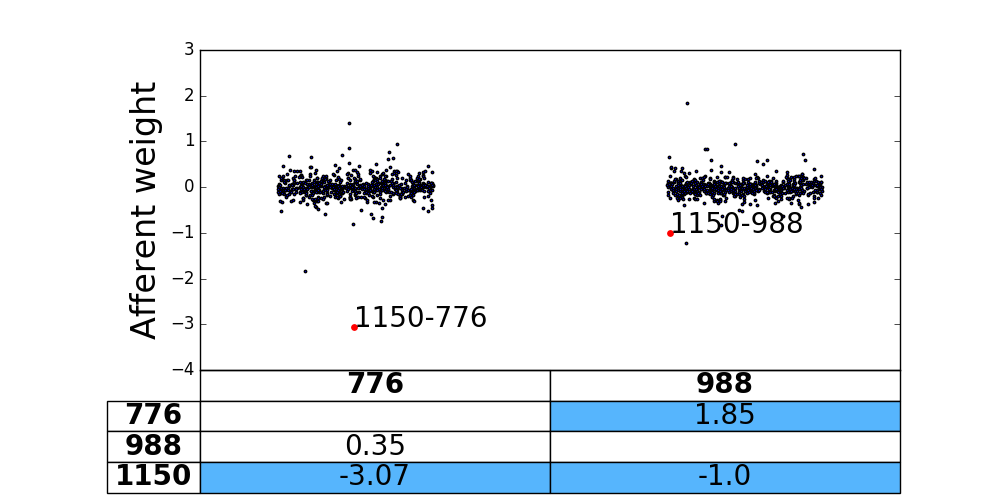
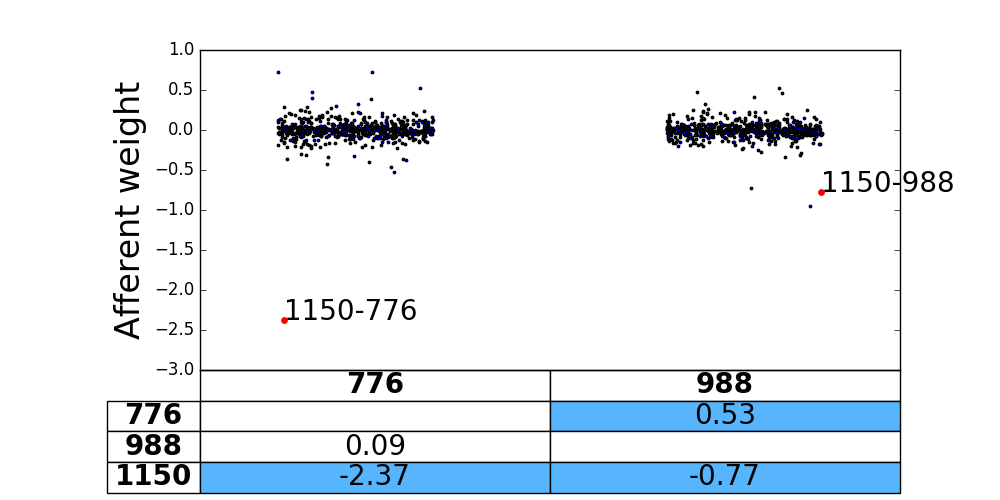
final edits

diff --git a/writeup/NAACL2019/Sections/Results_number.tex b/writeup/NAACL2019/Sections/Results_number.tex
@@ -55,7 +55,7 @@ nounPPAdv & PP & - &  - &   \textcolor{blue}{99.8} \\
 \hline
 
 \end{tabular}
-\caption{Ablation experiments results: Percentage accuracy in all NA-tasks. Full: non-ablated model, C: condition, S: singular, P: plural. Red: Singular subject, Blue: Plural subject. Performance reduction less than 10\% denoted by `-'.  \label{tab:ablation-results}}
+\caption{Ablation-experiments results: Percentage accuracy in all NA-tasks. Full: non-ablated model, C: condition, S: singular, P: plural. Red: Singular subject, Blue: Plural subject. Performance reduction less than 10\% is denoted by `-'.  \label{tab:ablation-results}}
 \end{table}
 \end{center}
 
@@ -84,7 +84,7 @@ nounPPAdv & PP & - &  - &   \textcolor{blue}{99.8} \\
             \subcaption{\unit{2}{126} (plural)}
     \label{fig:plural-unit}
     \end{subfigure}
-\caption{Cell and gate activations during processing of a sentence with a prepositional phrase between subject and verb. Values in (b) and (c) are averaged across all condition sentences, with error bars showing standard deviations}
+\caption{Cell and gate activations during processing of sentences with a prepositional phrase between subject and verb. Values in (b) and (c) are averaged across all condition sentences, with error bars showing standard deviations.}
 \end{figure*}
 
 \subsection{Long-range number units}\label{subsec:ablation}
@@ -93,9 +93,7 @@ We first tested LSTM performance on Linzen's data and on the NA-tasks of Table
 \newcite{Linzen:etal:2016} and later work, we compute the likelihood
 that the LSTM assigns to the main verb of each sentence given the
 preceding context, and compare it to the likelihood it assigns to the
-wrong verb inflection for the opposite number. Accuracy in a given condition is the proportion of sentences
-in the condition where the model assigned a higher likelihood to the
-correct form than to the wrong one.
+wrong verb inflection. Accuracy in a given condition is the proportion of sentences in the condition where the model assigned a higher likelihood to the correct form than to the wrong one.
 
 Network performance is reported in Table \ref{tab:ablation-results}
 (right column -- `Full'). We see, first, that some NA-tasks and
@@ -134,7 +132,7 @@ chance level in the more difficult incongruent conditions of the
 namePP, nounPP and nounPPAdv
 tasks. 
 
-Moreover, the ablation effect depended on the grammatical number of the subject: \unit{2}{126} significantly reduces
+Moreover, the ablation effect depended on the grammatical number of the subject: ablating \unit{2}{126} significantly reduces
 network performance only if the subject is plural (P, PS or PP conditions) and \unit{2}{338}
 only if the subject is singular (S, SP or SS conditions). In what follows, we will therefore
 refer to these units as the `plural' and `singular' units, respectively,
@@ -196,17 +194,17 @@ A single divergence between the solution depicted in Figure \ref{fig:cartoon} an
 \begin{figure}[b]
     \centering
     \includegraphics[height=5cm]{Figures/weight_dists_verbs.png}
-    \caption{Efferent weights of the LR-units (\unit{2}{126} and \unit{2}{338}), the syntax unit (\unit{2}{500}, section \ref{sec:syntax-units}) and two arbitrary units (\unit{2}{1}, \unit{2}{650}).}
+    \caption{Efferent weights of the LR-units (\unit{2}{126} and \unit{2}{338}), the syntax unit (\unit{2}{500}; section \ref{sec:syntax-units}) and two arbitrary units (\unit{2}{1} and \unit{2}{650}).}
     \label{fig:output-weights}
 \end{figure}
 
-The singular and plural units have emerged at the second layer of the network. This seems appropriate if number information needs to be directly projected to the output layer for correct verb-form prediction. Moreover, number-unit output should be projected differently to singular and plural verb forms in the output layer, only increasing activity in output units representing the suitable form. For example, for the singular unit, since singular subjects are encoded with a negative value ($C_{t_{verb}-1}<-1$ in figure \ref{fig:singular-unit}), the more negative its efferent weights to singular verb forms in the output layer, the higher the probabilities of these verb forms would be. Figure \ref{fig:output-weights} shows the efferent weights of the LR-number units to all verbs in our data-sets. We find that, indeed, the efferent weights to the singular and plural verb forms are segregated from each other, with weight signs that correspond to the negative encoding of subject number used by both singular and plural units. Two other arbitrary units, \unit{2}{1} and \unit{2}{650} and the syntax unit \unit{2}{500} to be described below (Section \ref{sec:syntax-units}) do not have segregated efferent weights to verb forms, as expected. 
+The singular and plural units have emerged at the second layer of the network. This seems appropriate if number information needs to be directly projected to the output layer for correct verb-form prediction. Moreover, number-unit output should be projected differently to singular and plural verb forms in the output layer, only increasing activity in output units representing the suitable form. For example, for the singular unit, since singular subjects are encoded with a negative value ($C_{t_{verb}-1}<-1$ in figure \ref{fig:singular-unit}), the more negative its efferent weights to singular verb forms in the output layer, the higher the probabilities of these verb forms would be. Figure \ref{fig:output-weights} shows the efferent weights of the LR-number units to all verbs in our data-sets. We find that, indeed, the efferent weights to the singular and plural verb forms are segregated from each other, with weight signs that correspond to the negative encoding of subject number used by both singular and plural units. Two other arbitrary units, \unit{2}{1} and \unit{2}{650}, and the syntax unit \unit{2}{500} to be described below (Section \ref{sec:syntax-units}) do not have segregated efferent weights to verb forms, as expected. 
 
 \subsection{Short-range number information}
 \begin{figure}
     \centering
     \includegraphics[height=5cm]{Figures/GAT1d_cell_.png}
-    \caption{Generalization across time. Error bars represent standard deviations across cross-validation splits.}
+    \caption{Generalization across time of subject-number prediction. Error bars represent standard deviations across cross-validation splits.}
     \label{fig:GAT}
 \end{figure}
 
@@ -218,7 +216,7 @@ pattern of activities in the network (excluding the two LR-number units)
 and whether this decoding is stable across time \cite[see][for similar
 observations and related methods]{Giulianelli:etal:2018}. We expected
 this distributed activity network to track number in a
-small time window after the subject, but, unlike the proper number units,
+small time window after the subject, but, unlike the LR-number units,
 to be affected by incongruent intervening nouns.
 
 We trained a linear model to predict the grammatical number of the
@@ -256,10 +254,8 @@ structure as that of the LR units (Figure
 encountered noun: subject number could be decoded from single-unit cell activity
 during its presentation (AUC$>0.9$), but activity `swaps' once an
 interfering noun appears (i.e., AUC decreases to zero in a
-generalization-across-time analysis). Finally, to validate the effect of SR-number units on network performance, for all easier NA-tasks, we ablated both SR and LR number
-units (12 in total) or SR units only (10 in total). Both experiments
-resulted in a significant reduction in task performance compared to
-1,000 random equi-size ablations ($p<0.01$).
+generalization-across-time analysis). Finally, to validate the role of SR-number units in encoding number for easier NA-tasks, we ablated both SR and LR number
+units (12 in total) or SR units only (10 in total) and evaluated network performance on these NA-tasks. Both experiments resulted in a significant reduction in task performance compared to 1,000 random equi-size ablations ($p<0.01$ in all `easier' tasks).
 
 Intriguingly, we observed qualitatively that LR units are almost
 always making the right prediction, even when the network predicts the

diff --git a/writeup/NAACL2019/Sections/Discussion.tex b/writeup/NAACL2019/Sections/Discussion.tex
@@ -12,13 +12,15 @@ language-model training, as was previously suggested by theoretical
 studies of artificial neural networks \cite[e.g.][]{Bowers:2009} and in
 neuroscience \cite[e.g.,][]{Kutter:etal:2018}.
 
-Our analysis also identified units whose activity correlates with syntactic complexity. These units, as a whole, affect performance on the agreement tasks. We found that one of them, more specifically, encodes the main subject-verb dependency across various syntactic constructions. Two of its highest efferent weights were to the number unit forget and input gates. A natural interpretation is that this unit propagates syntax-based remember and update flags that control when the number units store and release information. % Together, the LR-number units and the syntax unit thus form the main component of the circuit underlying LSTM capacity in performing the NA-task.
+Our analysis also identified units whose activity correlates with syntactic complexity. These units, as a whole, affect performance on the agreement tasks. We found that one of them, more specifically, encodes the main subject-verb dependency across various syntactic constructions. Moreover, the highest afferent weights to the forget and input gates of both LR-number units were from this unit. A natural interpretation is that this unit propagates syntax-based remember and update flags that control when the number units store and release information.
 
 Finally, number is also redundantly encoded in a more distributed way, but the latter mechanism is unable to carry information across embedded syntactic structures. The computational burden of tracking number information thus gave rise to two types of units in the network,  encoding similar information  with distinct properties and dynamics.
 
-The relationship we uncovered and characterized between syntax and number units suggests that agreement in language-model-trained LSTMs cannot be entirely explained away by superficial heuristics, and the networks have, to some extent, learnt to build and exploit syntactic representations akin to those linguists conjecture support human sentence processing.
+The relationship we uncovered and characterized between syntax and number units suggests that agreement in language-model-trained LSTMs cannot be entirely explained away by superficial heuristics, and the networks have, to some extent, learned to build and exploit structure-based syntactic representations, akin to those conjectured to support human-sentence processing.
 
-We hope that our study will inspire more analyses of the inner dynamics of LSTM and other sequence-processing networks, complementing the currently popular ``black-box probing'' approach. Besides bringing about a mechanistic understanding of language processing in artificial models, this could inform work on human sentence processing.  Indeed, our study yields a particular testable prediction on brain dynamics, given that the computational burden of long-distance agreement remains the same for artificial and biological neural network. We conjecture that a similar interaction between syntactic and feature-carrying units might be implemented in the human brain, and plan to test this in future work.
+%akin to those linguists conjecture support human sentence processing.
+
+We hope that our study will inspire more analyses of the inner dynamics of LSTM and other sequence-processing networks, complementing the currently popular ``black-box probing'' approach. Besides bringing about a mechanistic understanding of language processing in artificial models, this could inform work on human-sentence processing. Indeed, our study yields particular testable predictions on brain dynamics, given that the computational burden of long-distance agreement remains the same for artificial and biological neural network. We conjecture a similar distinction between SR and LR units to be found in the human brain, as well as an interaction between syntax-processing and feature-carrying units such as the LR units, and plan to test this in future work.
 
 % More generally, this work has several contributions. First, it provides the most detailed analysis of the inner dynamics of an LSTM performing a linguistic task we are aware of. We think that similar studies should complement currently popular black-box tests, to achieve a true understanding of language processing in neural networks. \marco{Here, we might want to mention the need for future work on relative clauses, as well as on other  models, such as transformers.}. Second, our simulations generated two testable predictions and can thus inform future work in neuroscience as discussed above. Finally, our findings about number agreement suggest that LSTM-LMs can encode the underlying subject-verb dependency across many syntactic structures without relying on canny heuristics. This contributes explicit evidence to the debate about structure-based processes in LSTM-LMs.
 

diff --git a/writeup/NAACL2019/Sections/Results_interaction.tex b/writeup/NAACL2019/Sections/Results_interaction.tex
@@ -17,8 +17,8 @@
     \caption{Connectivity among the syntax unit \unit{2}{500} and
       LR-number units \unit{2}{126} and \unit{2}{338}. Projecting
       units are on the table rows. Blue background highlights outlier
-      values ($|z|>3$). Weights from the syntax unit are marked in red
-      and are explicitly labeled in the plots, that show the overall distributions of afferent weights to each number unit.}
+      values ($|z-score|>3$). Weights from the syntax unit are marked in red
+      and are explicitly labeled in the plots, which show the overall distributions of afferent weights to each number unit.}
 \label{fig:interaction}
 \end{figure*}
 
@@ -27,23 +27,23 @@ between syntax unit \unit{2}{500}, which appears to be more closely involved in
 tracking subject-verb agreement, and the LR number units, as well as at
 the connections between the latter. For each unit pair, there are 4
 connection types, one for each component of the target cell (to the 3
-gates and to the memory cell). We focus on input and forget gates, as they control the flow and storage of number information.
+gates and to the update candidate). We focus on input and forget gates, as they control the flow and storage of number information.
 
 Figures \ref{fig:interaction-input} and \ref{fig:interaction-forget}
 show the distributions of all afferent recurrent weights to the input
-and forget gates of the number units, scaled by the maximal activity
-$h_t$ of the pre-synaptic units during the nounPP task (for evaluating
-the effective input to the units). We found that the weights from the
+and forget gates of the LR-number units, scaled by the maximal activity
+$h_t$ of the pre-synaptic units during the nounPP task (this scaling evaluates
+the \textit{effective} input to the units, and did not change the conclusions described below). We found that the weights from the
 syntax unit to the forget gate of both \unit{2}{126} and \unit{2}{338}
 are exceptionally high in the positive direction compared to all other
-afferent connections in the network ($z=8.1, 11.2$, respectively), and
-those to their input gates exceptionally negative ($z=-16.2,
+afferent connections in the network ($z-score=8.1, 11.2$, respectively), and
+those to their input gates exceptionally negative ($z-score=-16.2,
 -7.2$). Since the cell activity of syntax unit \unit{2}{500} is
 positive across the entire subject-verb dependency (e.g., Figure
 \ref{fig:syntax-unit-double-subjrel}), the connectivity from the
-syntax unit drives the number unit forget gates towards 1
-($W^f_{776, 1150}h_{1150}>>0$) and their input gates towards 0
-($W^i_{776, 1150}h_{1150}<<0$). Looking at the right-hand-side of
+syntax unit drives the number unit forget gates towards one
+($W^f_{776, 1150}h^{1150}>>0$ and $W^f_{988, 1150}h^{1150}>>0$; $t_{subject}<t<t_{verb}$) and their input gates towards zero
+($W^i_{776, 1150}h^{1150}<<0$ and $W^i_{988, 1150}h^{1150}<<0$). Looking at the right-hand-side of
 Eq.~(\ref{eq:update-rule}), this means that the first term becomes
 dominant and the second vanishes, suggesting that, across the entire
 dependency, the syntax unit conveys a `remember flag' to the number
@@ -52,7 +52,7 @@ negative at the end of the dependency, it conveys an `update flag'.
 
 Last, we note that the reciprocal connectivity between the two
 LR-number units is always positive, to both input and forget
-gates (and significant from \unit{2}{126} to \unit{2}{338}). Since
+gates (with $|z-score|>3$ for the \unit{2}{126}-to-\unit{2}{338} direction). Since
 their activity is negative throughout the subject-verb dependency
 (Figures \ref{fig:singular-unit} and \ref{fig:plural-unit}), this means
 that they are \textit{mutually inhibiting}, thus steering towards an

diff --git a/writeup/NAACL2019/Sections/Results_syntax.tex b/writeup/NAACL2019/Sections/Results_syntax.tex
@@ -26,11 +26,11 @@
             \caption{Two embeddings with subject relatives}
             \label{fig:syntax-unit-double-subjrel}
     \end{subfigure}
-\caption{Cell activity of syntax unit \unit{2}{500} while processing various syntactic structures. Values averaged across all stimuli in an NA-task, with error bars representing standard deviations. Relative clause NA-task stimuli specifically generated for this visualization. \yair{improve visualization}}
+\caption{Cell activity of syntax unit \unit{2}{500} while processing various syntactic structures. Values averaged across all stimuli in an NA-task, with error bars representing standard deviations. Relative clause NA-task stimuli were specifically generated for this visualization. \yair{improve visualization}}
 \end{figure*}
 
-We saw how the LR number unit input and forget gates control the flow
-of subject number information. It remains unclear, however, how the dynamics of these gates are controlled by the network. We hypothesized
+We saw how the input and forget gates of the LR-number units control the flow
+of subject-number information. It remains unclear, however, how the dynamics of these gates are controlled by the network. We hypothesized
 that other units may encode information about the syntactic structure
 of the sentence, and thus about the subject-verb dependency. To
 search for them, we tested whether syntactic information can be
@@ -38,7 +38,7 @@ decoded from some network units, by using depth of the
 syntactic tree as a proxy \cite{Nelson:etal:2017}. Specifically, we
 trained an L2-regularized regression model to predict syntactic
 tree-depth from the hidden-state activity of all units, using the data
-presented in Section \ref{sec:the_data} above in a nested 5-fold
+presented in Section \ref{sec:the_data} above, in a nested 5-fold
 cross-validation procedure. %
 % (the optimal regularization size was found to be consistent across CV-splits, $\lambda=784.76$, among 20 possible values log-uniformly distributed in $[10^-5, 10^5]$). Word position and tree-depth were decorrelated in the data and
 Word frequency was added as a covariate
@@ -51,7 +51,7 @@ To gain further insight regarding the functioning of the syntax units,
 we next visualized their gate and cell dynamics during sentence
 processing. We found that cell activity of unit
 \unit{2}{500}, which also had one of the highest weights in the
-regression model above, was remarkably structured. The activity of
+regression model, was remarkably structured. The activity of
 this unit increases across the entire subject-verb
 dependency and drops abruptly right after. Figures
 \ref{fig:syntax-unit-2Adv} and \ref{fig:syntax-unit-nounpp} show cell
@@ -65,4 +65,4 @@ results suggest that unit \unit{2}{500} consistently encodes
 subject-verb dependency in a syntax-sensitive manner. Other syntax
 units did not show an easily interpretable dynamics, and had no clear
 interactions with the number units in the analysis discussed next,
-suggesting that they perform different syntactic, or other, functions.
+suggesting that they perform different syntactic, or possibly other, functions.

diff --git a/writeup/NAACL2019/Sections/Setup.tex b/writeup/NAACL2019/Sections/Setup.tex
@@ -4,7 +4,7 @@
 We study the pretrained LSTM made available by
 \newcite{Gulordava:etal:2018}. This model is composed of a
 650-dimensional embedding layer, two 650-dimensional hidden layers,
-and an output with vocabulary size 50,000. In what follows, units in the first and second layers are referred to by numbers from 1-650 and 651-1300, respectively.
+and an output with vocabulary size 50,000.
 The model was trained with the language
 model objective on Wikipedia data, without fine-tuning for number
 agreement, and obtained perplexity close to state of the art in the experiments of Gulordava et al.\footnote{For robustness, key findings reported below were also replicated with the same model trained with different initialization seeds and variations with different hyper-parameters.} 
